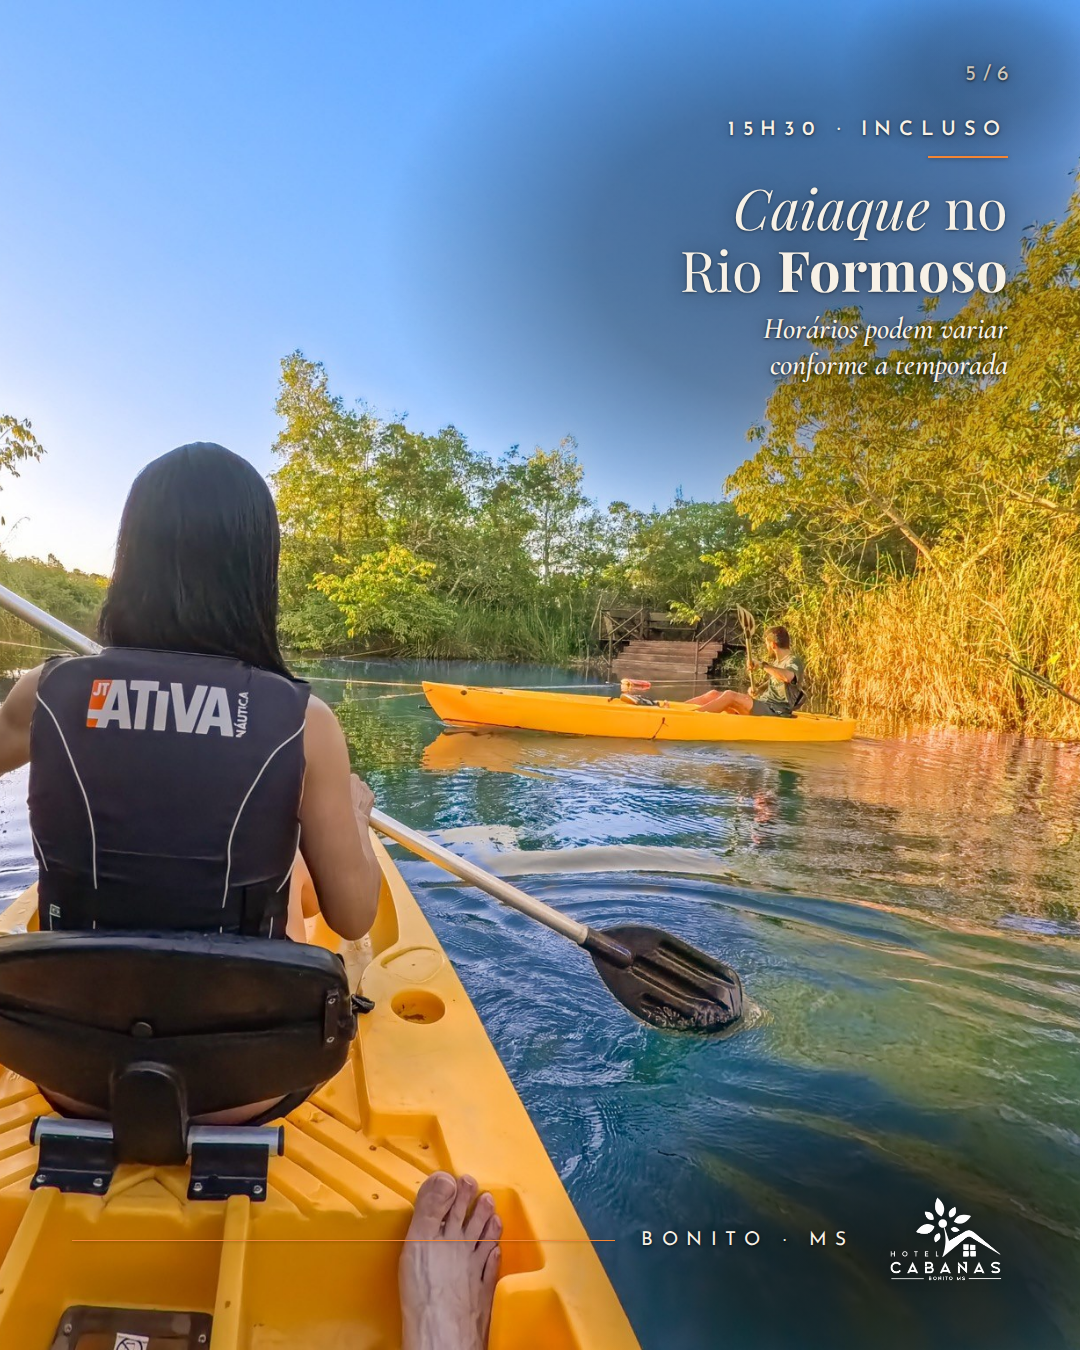
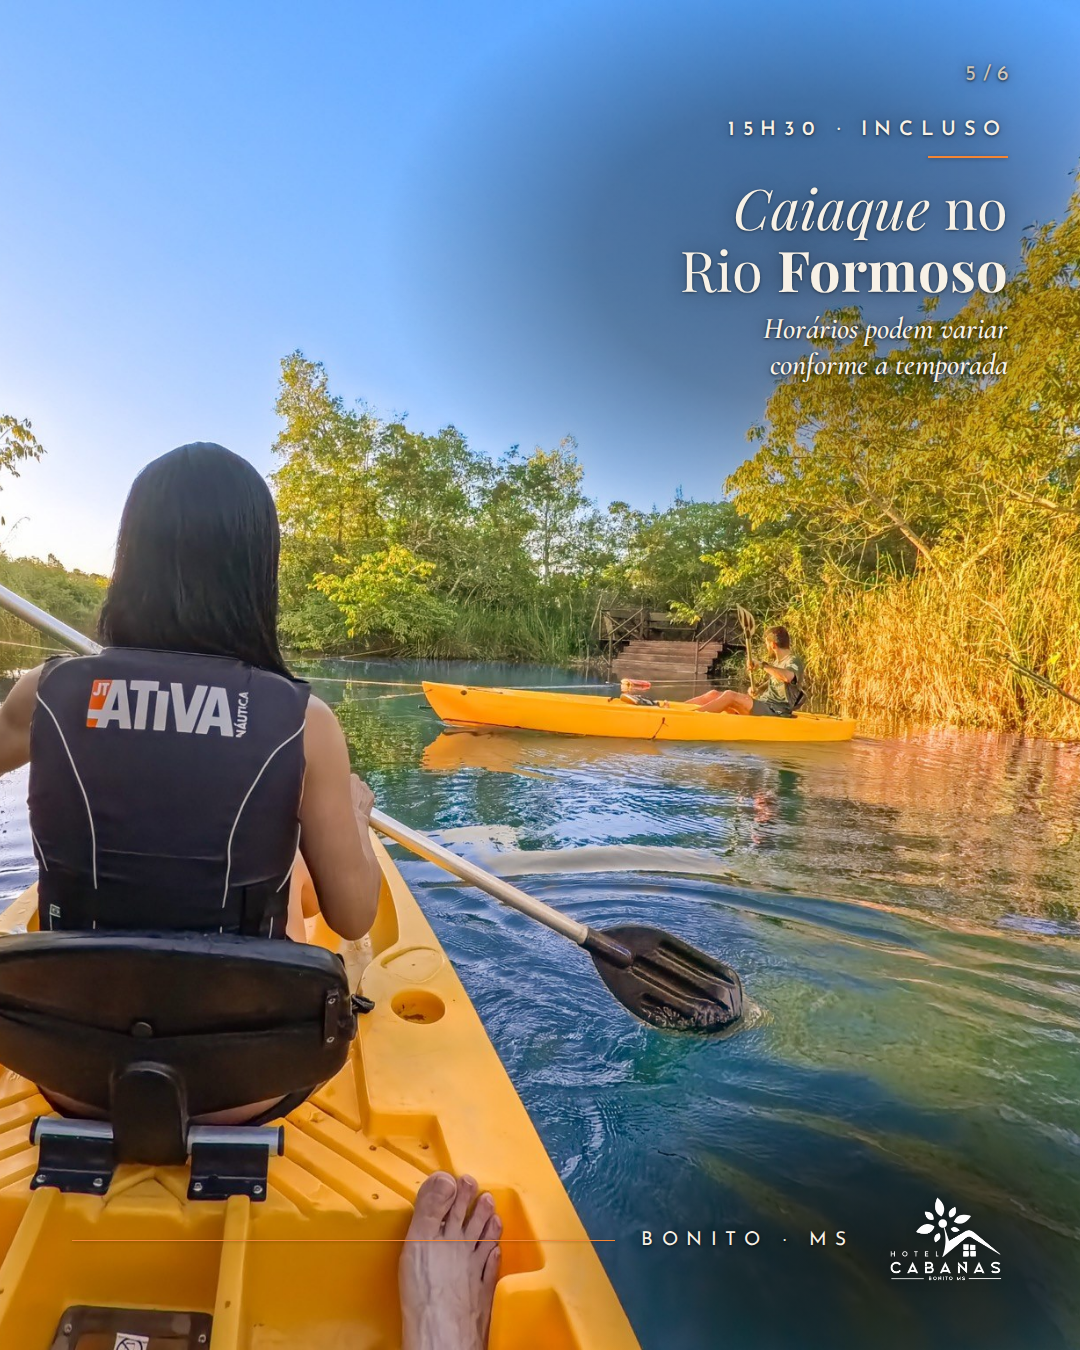
Criativos dos anúncios: V5, P02, P04, P05 e P10 no estilo sem faixa, 4:5 e 9:16 (20 anúncios completos)
Claude-Session: https://claude.ai/code/session_01GffBmxQFJnfaKwiJFV7qgT

Changed region(s): [[0.825, 0.0, 1.0, 0.1244]]

diff --git a/design/pecas/anuncios/2026-10-plano-de-midia/P02/P02-1.html b/design/pecas/anuncios/2026-10-plano-de-midia/P02/P02-1.html
@@ -9,15 +9,15 @@
 <link rel="stylesheet" href="../_estilo-lote2.css">
 <style>
 .peca { --pos: 40% center; --pos-story: 38% center; }
-.bloco-sf { top: 90px; }
-.story .bloco-sf { top: 330px; }
+.bloco-sf { top: 90px; --forca: .6; }
+.story .bloco-sf { top: 272px; --forca: .72; }
 </style>
 </head>
 <body>
 <div class="peca">
   <img class="foto" src="foto.jpg" alt="">
   <div class="sombra-sf sombra-assin"></div>
-  <div class="bloco-sf" style="--forca:.6">
+  <div class="bloco-sf">
     <h1 class="titulo">Pôr do sol e <i>banheira</i><br>para <b>dois</b></h1>
     <div class="linha"></div>
     <p class="fato">Banheira de hidromassagem para 2<br>Cabana Master</p>

diff --git a/design/pecas/anuncios/2026-10-plano-de-midia/P04/P04-3.html b/design/pecas/anuncios/2026-10-plano-de-midia/P04/P04-3.html
@@ -10,13 +10,14 @@
 .peca { --pos: 50% center; --pos-story: 55% center; }
 .bloco-sf { top: 420px; }
 .story .bloco-sf { top: 620px; }
+/* numeração sobre o teto branco: marrom da marca, sem sombra (a sombra virava mancha) */
+.num-sf { color: var(--marrom); text-shadow: none; font-weight: 600; }
 </style>
 </head>
 <body>
 <div class="peca">
   <img class="foto" src="foto-3.jpg" alt="">
   <div class="sombra-sf sombra-assin"></div>
-  <div class="sombra-sf sombra-num"></div>
   <span class="num-sf">3/5</span>
   <div class="bloco-sf" style="--forca:.55">
     <h1 class="titulo">Sauna a <i>vapor</i>,<br>até as <b>22h</b></h1>

diff --git a/design/pecas/anuncios/2026-10-plano-de-midia/P10/P10-1.html b/design/pecas/anuncios/2026-10-plano-de-midia/P10/P10-1.html
@@ -8,13 +8,15 @@
 <link rel="stylesheet" href="../_estilo-lote2.css">
 <style>
 .peca { --pos: 30% center; --pos-story: 35% center; }
+.bloco-sf { --forca: .6; }
+.story .bloco-sf { --forca: .4; }
 </style>
 </head>
 <body>
 <div class="peca">
   <img class="foto" src="foto.jpg" alt="">
   <div class="sombra-sf sombra-assin"></div>
-  <div class="bloco-sf cima" style="--forca:.6">
+  <div class="bloco-sf cima">
     <h1 class="titulo">Longe da <b>pressa</b>,<br>a <i>6 km</i> do centro</h1>
     <div class="linha"></div>
     <p class="fato">Acesso todo em asfalto</p>

diff --git a/design/pecas/anuncios/2026-10-plano-de-midia/P04/P04-1.html b/design/pecas/anuncios/2026-10-plano-de-midia/P04/P04-1.html
@@ -14,7 +14,7 @@
   <div class="sombra-sf sombra-assin"></div>
   <div class="sombra-sf sombra-num"></div>
   <span class="num-sf">1/5</span>
-  <div class="bloco-sf cima" style="--forca:.6">
+  <div class="bloco-sf cima" style="--forca:.36">
     <h1 class="titulo">Domingo a quinta,<br>no <i>ritmo</i> <b>seu</b></h1>
     <div class="linha"></div>
     <p class="fato">Piscina climatizada, das 7h às 22h</p>

diff --git a/design/pecas/anuncios/2026-10-plano-de-midia/P04/P04-5.html b/design/pecas/anuncios/2026-10-plano-de-midia/P04/P04-5.html
@@ -14,7 +14,7 @@
   <div class="sombra-sf sombra-assin"></div>
   <div class="sombra-sf sombra-num"></div>
   <span class="num-sf">5/5</span>
-  <div class="bloco-sf baixo" style="--forca:.65">
+  <div class="bloco-sf baixo story-cima" style="--forca:.7">
     <p class="apoio">Reserve direto</p>
     <div class="linha"></div>
     <h1 class="titulo"><b>Bangalô</b> que <i>não divide</i><br>paredes</h1>

diff --git a/design/pecas/anuncios/2026-10-plano-de-midia/P04/P04-2.html b/design/pecas/anuncios/2026-10-plano-de-midia/P04/P04-2.html
@@ -14,7 +14,7 @@
   <div class="sombra-sf sombra-assin"></div>
   <div class="sombra-sf sombra-num"></div>
   <span class="num-sf">2/5</span>
-  <div class="bloco-sf baixo" style="--forca:.6">
+  <div class="bloco-sf cima" style="--forca:.6">
     <h1 class="titulo">Hidromassagem<br><b>aquecida</b></h1>
   </div>
   <div class="assin-sf">

diff --git a/design/pecas/anuncios/2026-10-plano-de-midia/V5/V5-5.html b/design/pecas/anuncios/2026-10-plano-de-midia/V5/V5-5.html
@@ -17,7 +17,6 @@
 <div class="peca">
   <img class="foto" src="foto-5.jpg" alt="">
   <div class="sombra-sf sombra-assin"></div>
-  <div class="sombra-sf sombra-num" style="--forca:.28"></div>
   <span class="num-sf">5/6</span>
   <div class="bloco-sf direita">
     <p class="apoio">15h30 · incluso</p>

diff --git a/design/pecas/anuncios/2026-10-plano-de-midia/V5/V5-1.html b/design/pecas/anuncios/2026-10-plano-de-midia/V5/V5-1.html
@@ -10,7 +10,7 @@
 <style>
 .peca { --pos: 50% center; --pos-story: 45% center; }
 .bloco-sf { top: 120px; }
-.story .bloco-sf.direita { top: 330px; right: 235px; }
+.story .bloco-sf.direita { top: 330px; right: 235px; --forca: .68; }
 </style>
 </head>
 <body>
